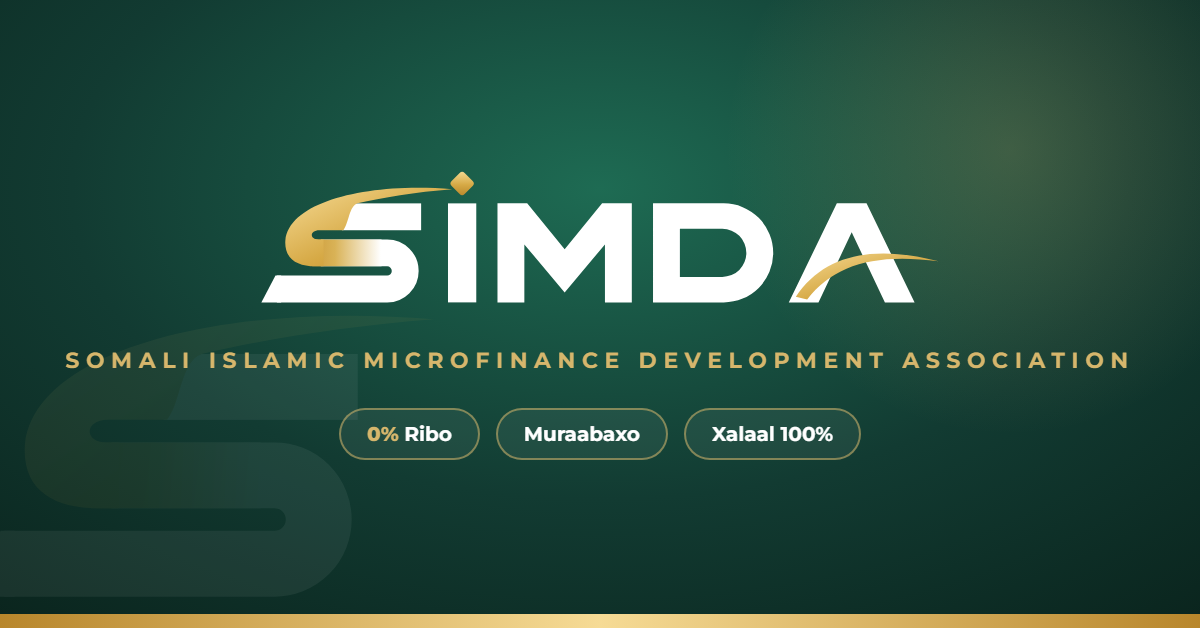
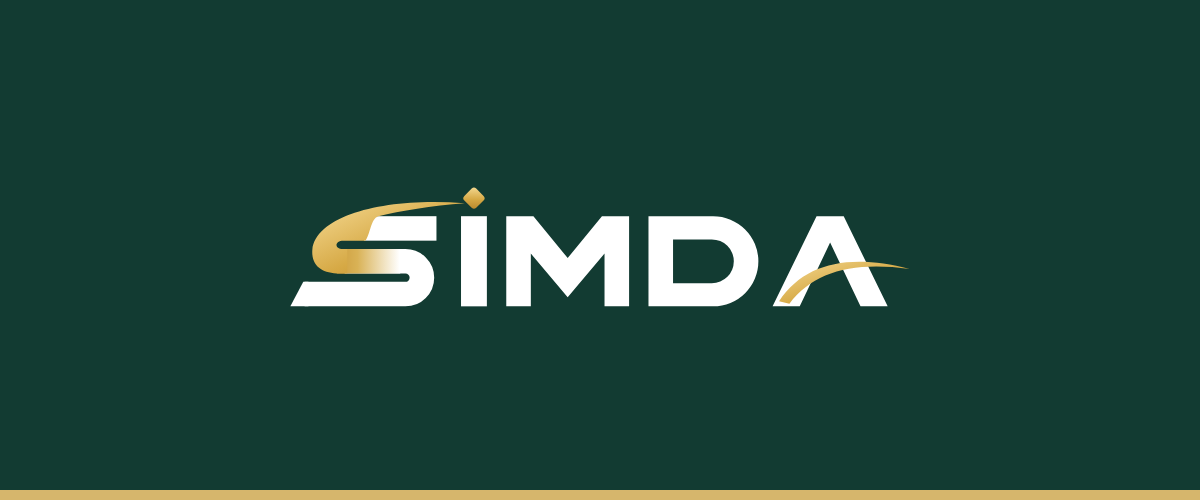
Client messages laid out as a clean business letter (email + WhatsApp)
Recipients found the message, pictures, signature and footer jumbled.
- Email: logo bar, title, greeting, message, signature, one quiet footer.
  Removed the badge strip and the second logo; white behind the signature
  so it stays readable in dark mode.
- WhatsApp: no emoji or decorative lines; title, greeting, message,
  signature, two-line footer. Banner is now just the logo on green.

diff --git a/brand/_src/whatsapp-banner.html b/brand/_src/whatsapp-banner.html
@@ -1,18 +1,6 @@
 <!doctype html><html><head><meta charset="utf-8"><style>
-@import url('https://fonts.googleapis.com/css2?family=Montserrat:wght@600;700;800&display=block');
-html,body{margin:0;width:1200px;height:628px;overflow:hidden}
-body{font-family:'Montserrat',Arial,sans-serif;background:radial-gradient(ellipse 80% 90% at 50% 30%,#1E6B53 0%,#123B32 55%,#0A241D 100%);position:relative;display:flex;flex-direction:column;align-items:center;justify-content:center}
-body::before{content:'';position:absolute;right:-120px;top:-160px;width:620px;height:620px;border-radius:50%;background:radial-gradient(circle,rgba(214,182,108,0.22),transparent 65%)}
-body::after{content:'';position:absolute;left:0;right:0;bottom:0;height:14px;background:linear-gradient(90deg,#B8862B,#F6DB95,#B8862B)}
-.wm{position:absolute;left:-60px;bottom:-90px;width:520px;opacity:0.06}
-img.logo{width:700px;position:relative}
-.tag{margin-top:34px;color:#D6B66C;font-size:22px;font-weight:700;letter-spacing:0.3em;text-align:center;position:relative}
-.pills{margin-top:34px;display:flex;gap:16px;position:relative}
-.pills span{color:#fff;font-size:20px;font-weight:700;padding:12px 26px;border:2px solid rgba(214,182,108,0.55);border-radius:40px;background:rgba(255,255,255,0.06)}
-.pills b{color:#D6B66C}
-</style></head><body>
-<img class="wm" src="../svg/simda-mark-reverse.svg" onerror="this.remove()">
-<img class="logo" src="../svg/simda-logo-reverse.svg">
-<div class="tag">SOMALI ISLAMIC MICROFINANCE DEVELOPMENT ASSOCIATION</div>
-<div class="pills"><span><b>0%</b> Ribo</span><span>Muraabaxo</span><span>Xalaal 100%</span></div>
-</body></html>
+html,body{margin:0;width:1200px;height:500px;overflow:hidden}
+body{background:#123B32;display:flex;align-items:center;justify-content:center;position:relative}
+body::after{content:'';position:absolute;left:0;right:0;bottom:0;height:10px;background:#D6B66C}
+img{width:640px}
+</style></head><body><img src="../svg/simda-logo-reverse.svg"></body></html>

diff --git a/app/Services/BroadcastTemplate.php b/app/Services/BroadcastTemplate.php
@@ -111,8 +111,11 @@ final class BroadcastTemplate
         return $locale === 'en' ? $en : ($locale === 'ar' ? $ar : $so);
     }
 
+
     /**
-     * The branded email. $hasLogo / $hasSignature say whether those images are attached (cid).
+     * The client email, laid out as a simple business letter:
+     * logo bar, title, greeting, message, signature, one quiet footer. $hasLogo / $hasSignature say
+     * whether those images are attached (cid).
      */
     public static function emailHtml(string $name, string $subject, string $message, string $locale, bool $hasLogo, bool $hasSignature): string
     {
@@ -121,76 +124,51 @@ final class BroadcastTemplate
         $e = static fn (string $v): string => htmlspecialchars($v, ENT_QUOTES, 'UTF-8');
         $dir = $locale === 'ar' ? 'rtl' : 'ltr';
         $align = $locale === 'ar' ? 'right' : 'left';
-        $font = "font-family:'Segoe UI',Roboto,Helvetica,Arial,sans-serif;";
-        $year = date('Y');
+        $font = "font-family:Arial,Helvetica,sans-serif;";
 
-        // Message paragraphs: blank lines split paragraphs, single line breaks stay.
         $paras = '';
         foreach (preg_split('/\R{2,}/u', trim($message)) ?: [] as $p) {
-            $paras .= '<p style="margin:0 0 16px;font-size:15px;line-height:1.75;color:#33443D;">' . nl2br($e(trim($p))) . '</p>';
+            $paras .= '<p style="margin:0 0 14px;font-size:15px;line-height:1.7;color:#2B3B34;">' . nl2br($e(trim($p))) . '</p>';
         }
 
         $logo = $hasLogo
-            ? '<img src="cid:' . self::CID_LOGO . '" alt="SIMDA" width="230" style="display:block;margin:0 auto;width:230px;max-width:70%;height:auto;border:0;">'
-            : '<div style="' . $font . 'font-size:34px;font-weight:800;letter-spacing:4px;color:#FFFFFF;">SIMDA</div>';
-        $footLogo = $hasLogo
-            ? '<img src="cid:' . self::CID_LOGO . '" alt="SIMDA" width="130" style="display:block;width:130px;height:auto;border:0;margin:0 0 12px;">'
-            : '<div style="font-size:20px;font-weight:800;letter-spacing:3px;color:#FFFFFF;margin:0 0 10px;">SIMDA</div>';
+            ? '<img src="cid:' . self::CID_LOGO . '" alt="SIMDA" width="170" style="display:block;width:170px;height:auto;border:0;">'
+            : '<span style="font-size:24px;font-weight:bold;letter-spacing:3px;color:#FFFFFF;">SIMDA</span>';
         $signature = $hasSignature
-            ? '<img src="cid:' . self::CID_SIGNATURE . '" alt="' . $e(self::SIGNER_NAME) . '" width="200" style="display:block;width:200px;height:auto;border:0;margin:6px 0 2px;">'
+            ? '<img src="cid:' . self::CID_SIGNATURE . '" alt="" width="160" style="display:block;width:160px;height:auto;border:0;margin:4px 0 0;">'
             : '';
 
-        $pill = static fn (string $t, string $s): string =>
-            '<td width="33%" style="padding:0 4px;" valign="top"><div style="background:#F6F1E4;border:1px solid #EADFC4;border-radius:12px;padding:12px 8px;text-align:center;">'
-            . '<div style="font-size:14px;font-weight:800;color:#123B32;">' . $t . '</div>'
-            . '<div style="font-size:11.5px;color:#8A6A2A;margin-top:3px;">' . $s . '</div></div></td>';
+        return '<!DOCTYPE html><html lang="' . $e($locale) . '" dir="' . $dir . '"><head><meta charset="utf-8">'
+            . '<meta name="viewport" content="width=device-width,initial-scale=1"><meta name="color-scheme" content="light only"><title>' . $e($subject) . '</title></head>'
+            . '<body style="margin:0;padding:0;background:#F2F2F0;' . $font . '">'
+            . '<table role="presentation" width="100%" cellpadding="0" cellspacing="0" bgcolor="#F2F2F0"><tr><td align="center" style="padding:24px 12px;">'
+            . '<table role="presentation" width="600" cellpadding="0" cellspacing="0" bgcolor="#FFFFFF" style="width:600px;max-width:100%;background:#FFFFFF;border:1px solid #E4E4E0;">'
 
-        return '<!DOCTYPE html><html lang="' . $e($locale) . '" dir="' . $dir . '"><head><meta charset="utf-8"><meta name="viewport" content="width=device-width,initial-scale=1"><title>' . $e($subject) . '</title></head>'
-            . '<body style="margin:0;padding:0;background:#EEF1EE;' . $font . '">'
-            . '<table role="presentation" width="100%" cellpadding="0" cellspacing="0" style="background:#EEF1EE;"><tr><td align="center" style="padding:28px 12px;">'
-            . '<table role="presentation" width="600" cellpadding="0" cellspacing="0" style="width:600px;max-width:100%;background:#FFFFFF;border-radius:18px;overflow:hidden;box-shadow:0 10px 30px rgba(18,59,50,0.10);">'
+            // 1. Logo bar
+            . '<tr><td bgcolor="#123B32" style="background:#123B32;padding:22px 32px;" align="' . $align . '">' . $logo . '</td></tr>'
+            . '<tr><td bgcolor="#D6B66C" style="height:3px;line-height:3px;font-size:0;background:#D6B66C;">&nbsp;</td></tr>'
 
-            // Header
-            . '<tr><td align="center" style="background:#123B32;background-image:linear-gradient(160deg,#1B5A47 0%,#123B32 55%,#0C2922 100%);padding:34px 24px 26px;">'
-            . $logo
-            . '<div style="margin-top:14px;font-size:10.5px;font-weight:700;letter-spacing:3px;color:#D6B66C;">SOMALI ISLAMIC MICROFINANCE DEVELOPMENT ASSOCIATION</div>'
-            . '</td></tr>'
-            . '<tr><td style="height:5px;line-height:5px;font-size:0;background:#D6B66C;background-image:linear-gradient(90deg,#B8862B,#F6DB95,#B8862B);">&nbsp;</td></tr>'
-
-            // Body
-            . '<tr><td dir="' . $dir . '" style="padding:36px 40px 10px;text-align:' . $align . ';">'
-            . '<h1 style="margin:0 0 18px;font-size:22px;line-height:1.3;color:#123B32;font-weight:800;">' . $e($subject) . '</h1>'
-            . '<p style="margin:0 0 16px;font-size:15px;line-height:1.6;color:#1D2B26;">' . $e($w['greeting']) . ' <strong>' . $e($name) . '</strong>,</p>'
+            // 2. Letter
+            . '<tr><td dir="' . $dir . '" bgcolor="#FFFFFF" style="background:#FFFFFF;padding:32px 32px 8px;text-align:' . $align . ';">'
+            . '<h1 style="margin:0 0 20px;font-size:20px;line-height:1.35;color:#123B32;font-weight:bold;">' . $e($subject) . '</h1>'
+            . '<p style="margin:0 0 14px;font-size:15px;line-height:1.7;color:#2B3B34;">' . $e($w['greeting']) . ' ' . $e($name) . ',</p>'
             . $paras
-            // Signature
-            . '<div style="margin-top:26px;padding-top:18px;border-top:1px solid #ECE7DD;">'
-            . '<div style="font-size:14px;color:#52635B;">' . $e($w['thanks']) . '</div>'
-            . $signature
-            . '<div style="font-size:16px;font-weight:800;color:#123B32;margin-top:4px;">' . $e(self::SIGNER_NAME) . '</div>'
-            . '<div style="font-size:12px;font-weight:700;letter-spacing:1.5px;color:#B8862B;text-transform:uppercase;margin-top:2px;">' . $e($w['role']) . '</div>'
-            . '</div>'
             . '</td></tr>'
 
-            // Values strip
-            . '<tr><td style="padding:22px 36px 30px;"><table role="presentation" width="100%" cellpadding="0" cellspacing="0"><tr>'
-            . $pill($e($w['p1']), $e($w['p1s'])) . $pill($e($w['p2']), $e($w['p2s'])) . $pill($e($w['p3']), $e($w['p3s']))
-            . '</tr></table></td></tr>'
+            // 3. Signature (white behind it so it stays readable in dark mode)
+            . '<tr><td dir="' . $dir . '" bgcolor="#FFFFFF" style="background:#FFFFFF;padding:8px 32px 30px;text-align:' . $align . ';">'
+            . '<p style="margin:0;font-size:15px;color:#2B3B34;">' . $e($w['thanks']) . '</p>'
+            . $signature
+            . '<p style="margin:6px 0 0;font-size:15px;font-weight:bold;color:#123B32;">' . $e(self::SIGNER_NAME) . '</p>'
+            . '<p style="margin:2px 0 0;font-size:13px;color:#6A756F;">' . $e($w['role']) . ', ' . $e($w['company']) . '</p>'
+            . '</td></tr>'
 
-            // Footer (like the website footer)
-            . '<tr><td dir="' . $dir . '" style="background:#0E2E27;padding:30px 40px 22px;text-align:' . $align . ';">'
-            . $footLogo
-            . '<div style="font-size:14px;font-weight:800;color:#FFFFFF;">' . $e($w['company']) . '</div>'
-            . '<div style="font-size:12px;color:#A9BDB4;margin-top:3px;line-height:1.5;">' . $e($w['full']) . '</div>'
-            . '<table role="presentation" width="100%" cellpadding="0" cellspacing="0" style="margin-top:18px;"><tr>'
-            . '<td valign="top" style="font-size:12.5px;line-height:1.8;color:#DCE6E1;padding-' . ($dir === 'rtl' ? 'left' : 'right') . ':12px;">'
-            . '<div style="color:#D6B66C;font-weight:700;font-size:11px;letter-spacing:1.5px;text-transform:uppercase;">' . $e($w['office']) . '</div>'
-            . $e($c['address']) . '<br>' . $e($w['reg']) . '</td>'
-            . '<td valign="top" style="font-size:12.5px;line-height:1.8;color:#DCE6E1;">'
-            . '<div style="color:#D6B66C;font-weight:700;font-size:11px;letter-spacing:1.5px;text-transform:uppercase;">' . ($locale === 'so' ? 'Xiriirka' : ($locale === 'ar' ? 'اتصل بنا' : 'Contact')) . '</div>'
-            . '<span style="color:#DCE6E1;">' . $e($c['phone']) . '</span><br><span style="color:#DCE6E1;">' . $e($c['email']) . '</span></td>'
-            . '</tr></table>'
-            . '<div style="margin-top:20px;padding-top:14px;border-top:1px solid rgba(255,255,255,0.12);font-size:11px;line-height:1.6;color:#8FA69C;">'
-            . '© ' . $year . ' ' . $e($w['rights']) . '<br>' . $e($w['why']) . '</div>'
+            // 4. Footer: one quiet block
+            . '<tr><td dir="' . $dir . '" bgcolor="#F7F6F2" style="background:#F7F6F2;border-top:1px solid #E4E4E0;padding:18px 32px;text-align:' . $align . ';font-size:12px;line-height:1.7;color:#6A756F;">'
+            . '<strong style="color:#123B32;">' . $e($w['company']) . '</strong> &middot; ' . $e($w['full']) . '<br>'
+            . $e($c['address']) . ' &middot; ' . $e($c['phone']) . '<br>'
+            . $e($c['email']) . '<br>'
+            . '<span style="color:#9AA39E;">&copy; ' . date('Y') . ' ' . $e($w['rights']) . ' ' . $e($w['why']) . '</span>'
             . '</td></tr>'
 
             . '</table></td></tr></table></body></html>';
@@ -201,22 +179,22 @@ final class BroadcastTemplate
         $w = self::words($locale);
         $c = self::contact();
         return "{$subject}\n\n{$w['greeting']} {$name},\n\n" . trim($message) . "\n\n"
-            . "{$w['thanks']}\n" . self::SIGNER_NAME . "\n{$w['role']}\n\n"
-            . "------------------------------\n"
-            . "{$w['company']}\n{$w['full']}\n{$w['office']}: {$c['address']}\n{$c['phone']}\n{$c['email']}\n"
-            . "{$w['p1']} · {$w['p2']} · {$w['p3']}\n\n© " . date('Y') . " {$w['rights']}";
+            . "{$w['thanks']}\n" . self::SIGNER_NAME . "\n{$w['role']}, {$w['company']}\n\n"
+            . "--\n{$w['company']} · {$w['full']}\n{$c['address']} · {$c['phone']}\n{$c['email']}";
     }
 
-    /** WhatsApp text (sent as the caption of the banner image when it fits). */
+    /**
+     * WhatsApp text, written like a short letter (sent as the caption of the SIMDA logo picture):
+     * title, greeting, message, signature, then a two-line footer. No emoji or decorative lines.
+     */
     public static function whatsappText(string $name, string $subject, string $message, string $locale): string
     {
         $w = self::words($locale);
         $c = self::contact();
-        $line = '━━━━━━━━━━━━━━━━';
-        return "*{$subject}*\n\n{$w['greeting']} *{$name}*,\n\n" . trim($message) . "\n\n"
-            . "{$w['thanks']}\n✍ *" . self::SIGNER_NAME . "*\n_{$w['role']}_\n\n"
-            . "{$line}\n🏦 *{$w['company']}*\n_{$w['full']}_\n"
-            . "📍 {$c['address']}\n📞 {$c['phone']}\n✉ {$c['email']}\n"
-            . "✅ {$w['p1']} · {$w['p2']} · {$w['p3']}\n{$line}";
+        return "*{$subject}*\n\n"
+            . "{$w['greeting']} {$name},\n\n"
+            . trim($message) . "\n\n"
+            . "{$w['thanks']}\n*" . self::SIGNER_NAME . "*\n{$w['role']}\n\n"
+            . "_{$w['company']} · {$c['address']}_\n_{$c['phone']}_";
     }
 }
